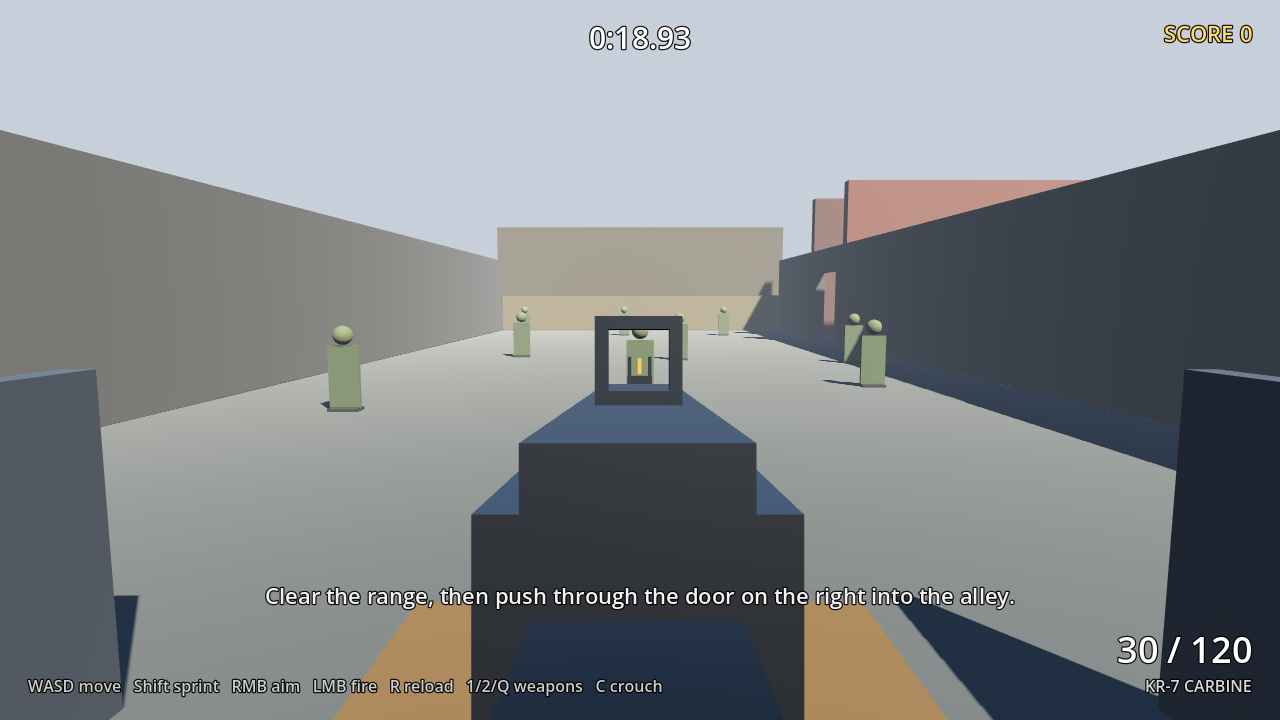
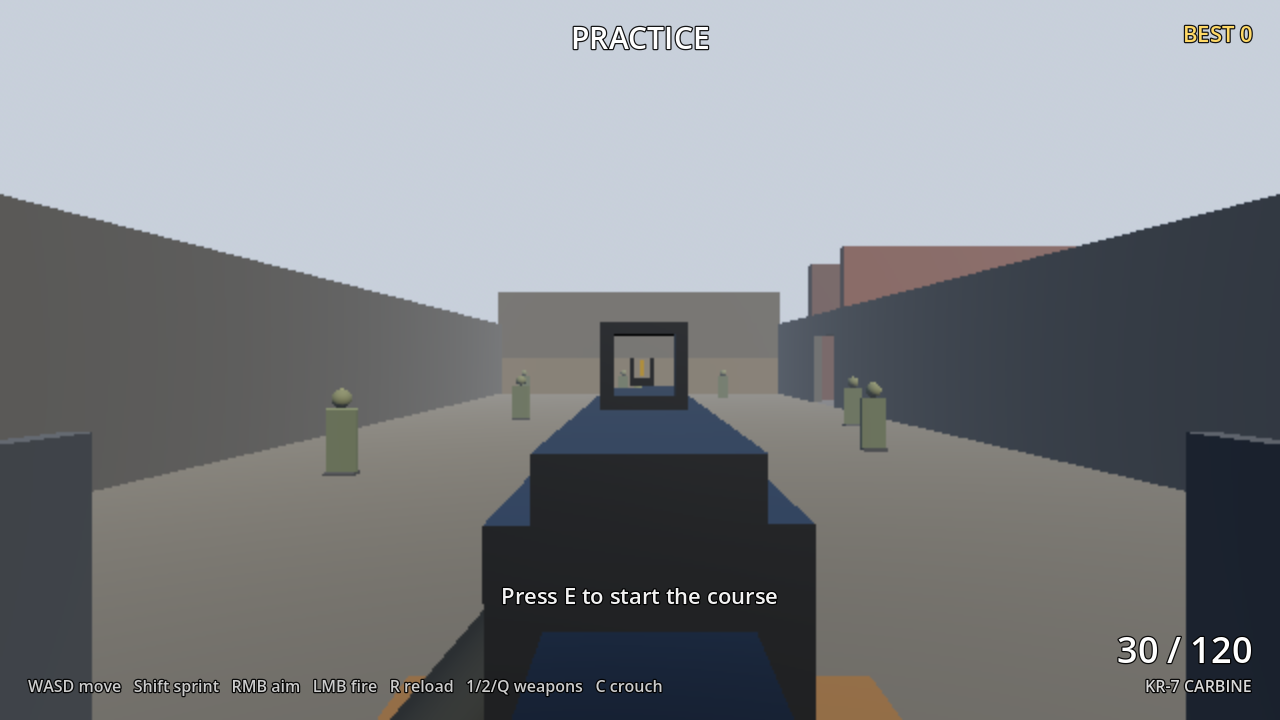
range-day: pass 2 close-out
Re-exported docs/ (40,391,991 bytes, under the 42 MiB cap), new README
screenshots (hip, ADS, mid-reload) with the hands in frame, controls and
test counts updated, and NOTES.md rewritten with what each step changed,
the tuned values, the web size and frame-time numbers, and the next three
highest-value changes. Final gates: autotest 126/126, web check pass with
zero console errors.

Claude-Session: https://claude.ai/code/session_01Tur3sA2Es4vRuxDkk1M7QQ

diff --git a/NOTES.md b/NOTES.md
@@ -8,6 +8,10 @@ is synthesised by `tools/gen_sfx.py`. No third-party names, maps, logos or asset
 Play: `docs/index.html` (web export, no-threads build, works on GitHub Pages without
 cross-origin isolation headers). Add `?low` to the URL for weak GPUs.
 
+Pass 1 built the core feel (below). Pass 2 implemented the three changes pass 1 ranked
+highest: movement (tactical sprint, slide, FOV kicks), layered audio with pooled impact
+FX and fire shake, and authored first-person clips with IK hands. See "Pass 2".
+
 ## What is closest to CoD
 
 - **ADS.** Timed zoom (rifle 240 ms, pistol 170 ms) with smoothstep easing, FOV
@@ -30,55 +34,105 @@ cross-origin isolation headers). Add `?low` to the URL for weak GPUs.
 - **Course loop.** Practice range with respawning targets, E on the pad to start, a
   3-2-1 countdown, pop-ups triggered by zones as you move through the alley, a
   finish pad, and a results card with time bonus, accuracy bonus and a saved best.
+- **Movement (pass 2).** Tactical sprint with the gun held high and a longer
+  sprint-to-fire, slide with a fire lockout then fire-from-slide, and damped FOV
+  kicks per state that the ADS FOV always wins over.
+- **Audio and FX (pass 2).** Three-layer shots with cycled variants, surface-keyed
+  impacts and particle bursts, decals, tracers, flash flicker, shell ticks, and a
+  per-weapon fire shake separate from recoil.
+- **Hands and clips (pass 2).** IK arms on every pose, and reload / swap / fire /
+  ADS clips whose lengths are the gameplay timers.
 
-## What is missing
+## Pass 2
 
-- **Animation.** The view model is posed procedurally (offsets, tilts, springs).
-  There are no hand-authored reload, sprint, inspect or raise animations, no hands,
-  and no slide/bolt motion on the gun. This is the single biggest gap in "feel".
-- **Movement set.** No slide, tactical sprint, mantle, lean, or dive. Crouch is a
-  toggle with a camera lerp only.
-- **Audio depth.** Shots are one synthesised layer plus a short tail; there is no
-  distance-based tail, indoor/outdoor reverb, bullet whiz, or shell drops. The
-  hitmarker tick is close; the gunshots are the furthest from reference.
-- **Enemy feedback.** Targets are static silhouettes. No damage numbers, no
-  staggers, no blood or dust puffs, no kill feed.
-- **Camera.** No screen shake on fire, no ADS blur on the near gun, no FOV kick
-  from sprint-start or landing, no weapon blockage against walls.
-- **Attachments and tuning UI.** One fixed tuning per gun, no sensitivity menu.
+### Step 1 - tactical sprint, slide, FOV kick (`scripts/movement.gd`)
 
-## Three changes that close the gap most
+- Tactical sprint: Shift again while sprinting, or a second tap inside 0.28 s.
+  8.6 m/s (sprint 7.4, walk 5.0), gun raised to `tac_pos` / `tac_rot`, +8 deg FOV,
+  6 s duration then 1.5 s re-arm. Ends on fire, ADS or reload. Sprint-to-fire from
+  tac is 0.42 s rifle / 0.26 s pistol (regular 0.28 / 0.16).
+- Slide: Crouch while sprinting (needs 0.15 s of sprint). 0.8 s committed burst from
+  9.2 m/s down to 2.4 m/s on a smoothstep friction curve, camera dips 0.14 m and
+  rolls 0.065 rad on a sine, +3 deg FOV that fades over the slide, 150 ms fire
+  lockout then fire from slide with +1.6 deg spread, 1.0 s cooldown, Space cancels
+  into a jump, ends crouched.
+- FOV kick: +4 sprint, +8 tac, +3 slide, damped at 9/s, and the camera FOV is
+  `lerp(base + kick, base * ads_fov, ads)` so ADS always overrides it.
+- Found while testing: holding fire while still holding Shift used to re-engage
+  sprint every tick and reset the sprint-to-fire timer; sprint is now suppressed
+  whenever the trigger is held.
 
-1. **Authored first-person animation with hands.** Import a rigged arms+gun set
-   (Blender, original), with reload, draw, sprint-in/out and fire clips, blended
-   with the existing procedural sway/kick layer. Reload-cancel timing is already
-   decoupled from the animation, so the clips just need to match the
-   `mag_in_t` / `reload_time` numbers. This alone moves it from "study" to "game".
-2. **Layered gunshot audio and impact FX.** Replace the single shot sample with a
-   three-layer shot (transient, body, distance tail), add a per-surface impact
-   sound and a small dust/spark particle, and add a 40 ms camera shake on fire.
-   Reference-level feel is mostly sound; this is the cheapest large win.
-3. **Movement feel: slide and tactical sprint, plus a sprint-out FOV kick.** Two
-   movement states and a tiny camera FOV ramp when sprint starts (CoD's "lean into
-   it"). Together with step-based footstep audio already in place, this fixes the
-   traversal half of the alley section, which currently feels flat.
+### Step 2 - layered gunshots, pooled FX, fire shake (`tools/gen_sfx.py`, `scripts/fx.gd`)
 
-## Verification
+- Shots: crack (4 variants) + body (4) + tail (3) per weapon, cycled so every variant
+  plays before a repeat and never twice running. The sidearm tail is a short, dark
+  "suppressed" thup with no flutter. Shell-casing tick 0.22 s (rifle) / 0.16 s
+  (pistol) after each shot from a fixed ring buffer. Per-surface impacts: concrete,
+  metal (targets, dumpsters, dividers, AC units), wood (benches, crates), 3 variants.
+- FX pools, all allocated once: 64 decal quads with a generated 32x32 splotch
+  texture (alpha scissor, oldest overwritten), 6 GPUParticles3D bursts per surface
+  (sparks / dust / chips), 4 tracer meshes (every 3rd shot, 70 ms), a muzzle flash
+  quad with a generated 64x64 star texture (additive, random size and roll) and an
+  omni light that starts at 2.2-3.8 and decays at 55/s. The ray query object is
+  reused; nothing in the firing path allocates.
+- Fire shake: rifle 0.22 deg per shot decaying at 14/s at 38 Hz, pistol 0.35 deg at
+  18/s and 42 Hz, capped at 3x amplitude + 0.5; a 0.25 deg kick when a target drops.
+  Applied on the recoil pivot alongside, not inside, the recoil pattern.
+- Web budget: cap 44,040,192 bytes (42 MiB) for `docs/`, checked by
+  `tests/verify_web.js`. Pass-1 export 40,231,939 bytes; pass-2 export
+  40,391,991 bytes (+160 KB for 48 WAVs at 1.2 MB on disk, packed smaller).
+- Frame time at 640x360 `?low` under SwiftShader in headless Chromium (noisy, +-20%
+  run to run, no GPU): pass-1 baseline idle 4.9 / firing 3.7 fps; pass-2 idle 3.4-4.2 /
+  firing 3.3-4.0 fps. The gate is 2.8 fps while firing (75% of baseline).
 
-- `godot --headless --path . -- --autotest` runs `tests/autotest.gd` through the
-  real input pipeline at 120 fps and checks 40 behaviours: ADS half/full timing and
-  FOV, spread, head vs body hit resolution, hitmarker kind, recoil kick and
-  recovery, ~760 RPM burst count, reload refill at 1.35 s and completion at 2.05 s,
-  sprint-to-fire block then fire, swap timing, semi-auto trigger, course countdown,
-  scoring, zone pop-ups, finish, best score and restart. Result: 40/40.
-- `tests/verify_web.js` drives the exported build in headless Chromium (Playwright,
-  SwiftShader) with pointer lock, DOM `pointermove` deltas, mouse buttons and keys,
-  and reads `window.__rangeday` (published every frame on web). It confirmed boot,
-  WebGL2 compatibility renderer, pointer lock, look, ADS FOV, hits and kills with
-  score, reload, sprint-to-fire, pistol semi-auto, Escape pause and click resume,
-  with zero console errors. Software rendering runs at about 7 fps at 640x360 with
-  `?low`, which is why physics is 60 Hz with a 16-step cap: game time stays wall
-  time down to roughly 4 fps.
+### Step 3 - authored clips and IK hands (`scripts/anims.gd`, `scripts/hands.gd`)
+
+- Rig: per side a capsule upper arm (0.46 m), capsule forearm (0.46 m) and a box
+  hand, under the sway pivot, solved each frame with analytic two-bone IK to
+  `GripR` / `GripL` nodes inside the current weapon model. Shoulders at
+  (+-0.20, -0.27, 0.16) in camera space with poles down and out.
+- Node layering: Kick (sub-stepped spring) -> Loco_<id> (loco player) ->
+  AnimPose_<id> (action player) -> Model_<id>. Loco clips write Loco and the
+  `Grip*Base` nodes; action clips write AnimPose, Mag, Bolt and the inner grips, so
+  they add and never replace the spring.
+- Clips built from the tables: `reload` (length = reload_time, mag out from
+  mag_out_t, in at mag_in_t), `reload_empty` (+ empty_extra, bolt or slide racked at
+  reload_time + 0.22), `lower` / `raise` (= lower_time / raise_time, with rest keys so
+  a cancelled reload snaps clean), `fire` (0.12 s off-hand kick), `ads_in` /
+  `ads_out` (= ads_time, hands settle on the grip), and loops `idle` (4 s), `walk`
+  (1/1.9 s), `sprint` (1/2.8 s), `tac` (1/3.3 s), `slide` (0.8 s) with hand offsets
+  that lag the gun a quarter cycle. No gameplay timer changed.
+- The pass-1 procedural reload tilt and swap lower are gone; the autotest shows the
+  clip position tracking `reload_t` within 40 ms and the view model on screen in
+  every state for both weapons.
+
+### Verification
+
+- `godot --headless --path . -- --autotest`: 126/126 (pass 1: 40). Adds sprint and
+  tac speeds, double-tap window in and out, tac sprint-to-fire, slide start / lockout
+  / spread / duration / cooldown / jump cancel, FOV per state and restore, variant
+  cycling, shake decay, FX and scene node counts unchanged over 500 shots, decal cap,
+  tracer cadence, clip lengths and key times per weapon and phase, reload clip sync,
+  bolt travel, lower / raise timing, loop selection, on-screen projection per state.
+- `tests/verify_web.js`: boot, pointer lock, look, ADS, hits and score, reload,
+  sprint-to-fire, semi-auto, pause and resume, zero console errors, size cap, fps
+  floor. Result: WEB CHECK PASS on the final export, 0 console errors (so
+  GPUParticles3D and the generated textures run on the WebGL2 compatibility renderer).
+
+## Next three highest-value changes
+
+1. **Target reactions and a kill feed.** Targets that stagger on body hits, snap back
+   on headshots, and show floating damage numbers, plus a short kill feed and a
+   per-target "time to down" readout. Everything the hitmarker started, finished.
+2. **Weapon blockage, ADS depth of field and landing shake.** Lower the gun when the
+   muzzle is inside a wall (a short forward ray), blur the near view model while
+   aimed (a cheap two-plane fade works on compatibility), and add a landing camera
+   dip and FOV bump after jumps and slide-jumps. These are the camera-side cues
+   still missing between this and the reference.
+3. **Settings and a second course.** Sensitivity, ADS sensitivity multiplier and FOV
+   in a small menu saved to user://, and a second course that mixes a window
+   sequence with a longer alley, so the movement set from pass 2 has somewhere to
+   matter. Attachments can wait until the base loop has a reason to replay.
 
 ## Numbers (for tuning)
 
@@ -91,4 +145,14 @@ cross-origin isolation headers). Add `?low` to the URL for weak GPUs.
 | First-shot recoil (pitch, deg) | 1.05 | 2.1 |
 | Recovery rate (1/s) | 5.5 | 11 |
 | Reload mag-in / done / empty extra | 1.35 / 2.05 / +0.45 s | 0.95 / 1.55 / +0.30 s |
-| Sprint-to-fire | 0.28 s | 0.16 s |
+| Sprint-to-fire / from tac sprint | 0.28 / 0.42 s | 0.16 / 0.26 s |
+| Fire shake amp / decay / freq | 0.22 deg / 14 / 38 Hz | 0.35 deg / 18 / 42 Hz |
+| Shell tick delay | 0.22 s | 0.16 s |
+
+| Movement | |
+|---|---|
+| Walk / sprint / tac sprint | 5.0 / 7.4 / 8.6 m/s |
+| Double-tap window, tac duration, re-arm | 0.28 s, 6 s, 1.5 s |
+| Slide speed start / end, duration, cooldown | 9.2 / 2.4 m/s, 0.8 s, 1.0 s |
+| Slide fire lock / extra spread | 0.15 s / +1.6 deg |
+| FOV kick sprint / tac / slide, damping | +4 / +8 / +3 deg, 9/s |

diff --git a/README.md b/README.md
@@ -6,15 +6,17 @@ audio is procedurally generated.
 
 ![hip](screenshots/hip.png)
 ![ads](screenshots/ads.png)
+![reload](screenshots/reload.png)
 
 ## Play
 
 - Web build: `docs/` (deployed by `.github/workflows/pages.yml` to GitHub Pages on
   pushes to `main`; enable Pages with source "GitHub Actions" in the repo settings).
 - Add `?low` to the URL to disable shadows and MSAA on weak GPUs.
-- Controls: WASD move, Shift sprint, RMB aim, LMB fire, R reload, 1/2/Q or wheel to
-  swap, C crouch, Space jump, E start the course on the white pad, Enter restart,
-  Esc release the mouse.
+- Controls: WASD move, Shift sprint, Shift again (or double-tap) tactical sprint,
+  C while sprinting to slide (Space cancels into a jump), RMB aim, LMB fire,
+  R reload, 1/2/Q or wheel to swap, C crouch, Space jump, E start the course on
+  the white pad, Enter restart, Esc release the mouse.
 
 ## Build
 
@@ -27,10 +29,14 @@ godot --headless --path . --export-release "Web" docs/index.html
 ## Test
 
 ```bash
-godot --headless --path . -- --autotest                # 40 gameplay/timing checks
+godot --headless --path . -- --autotest                # 126 gameplay/timing/animation checks
 python3 -m http.server 8765 --directory docs &          # then:
-SHOTS=/tmp/shots node tests/verify_web.js               # headless Chromium (Playwright)
+SHOTS=/tmp/shots node tests/verify_web.js               # headless Chromium (Playwright): input, FX, size cap, fps floor
 ```
 
-See `NOTES.md` for what is closest to the reference feel, what is missing and the
-three changes that would close the gap most.
+Tuning lives in three tables: `scripts/weapons.gd` (per-weapon gunplay, rig anchors,
+audio/shake), `scripts/movement.gd` (speeds, tactical sprint, slide, FOV kicks) and
+`scripts/anims.gd` (clip shapes; lengths come from the weapon tables).
+
+See `NOTES.md` for what is closest to the reference feel, what each pass changed, and
+the next three changes that would close the gap most.
